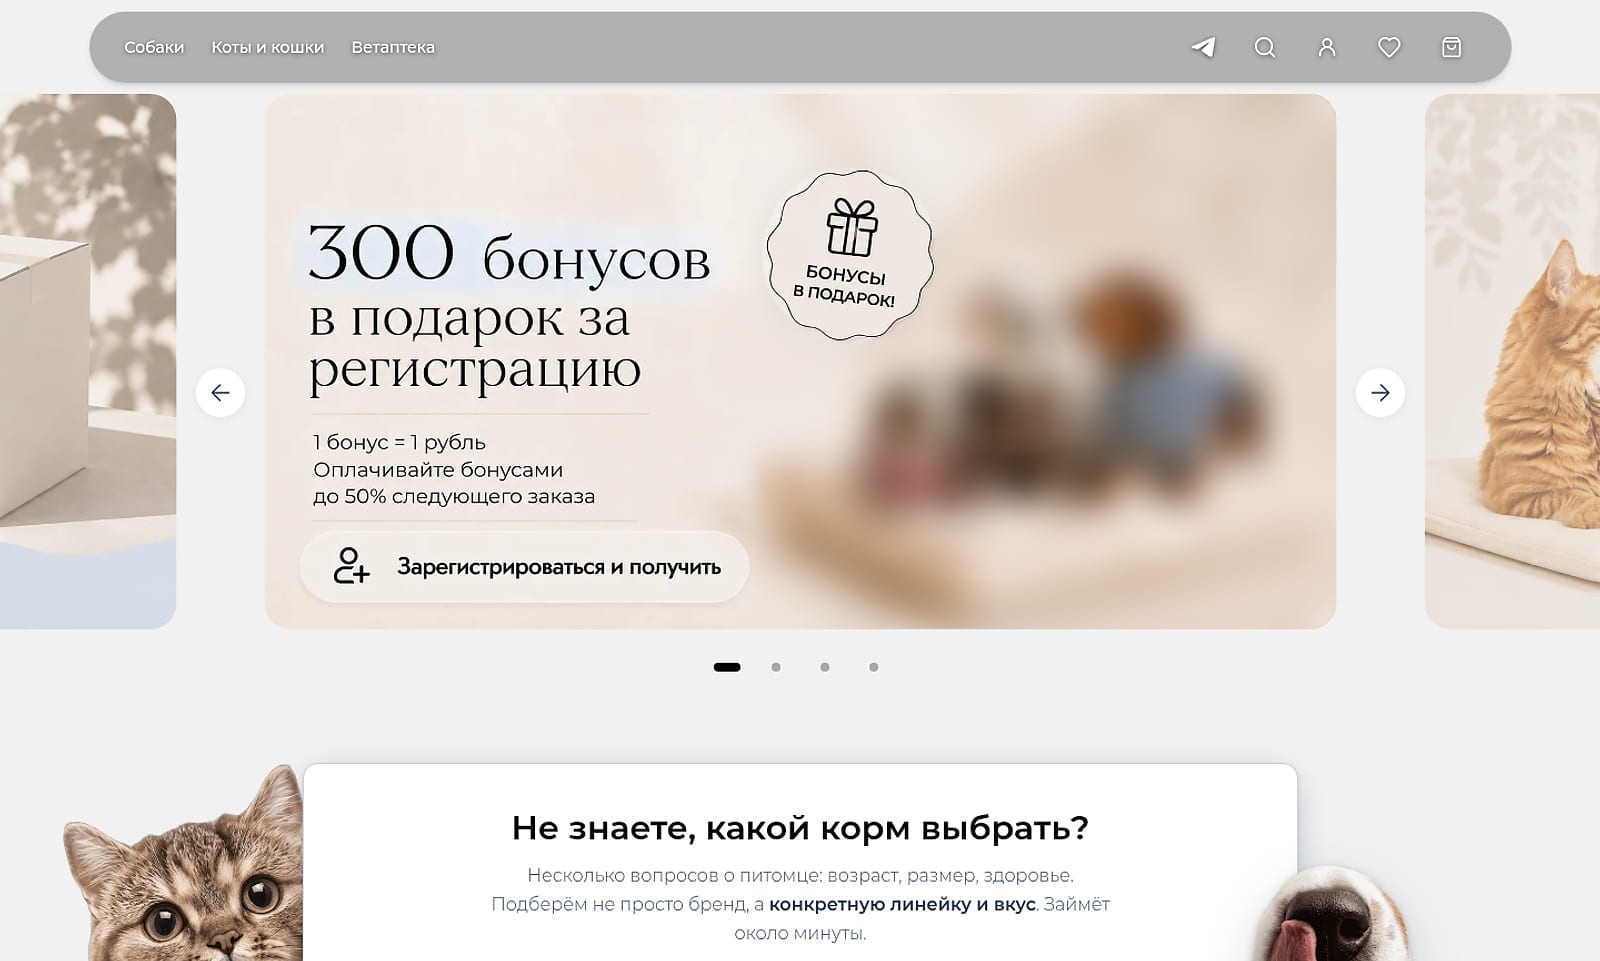
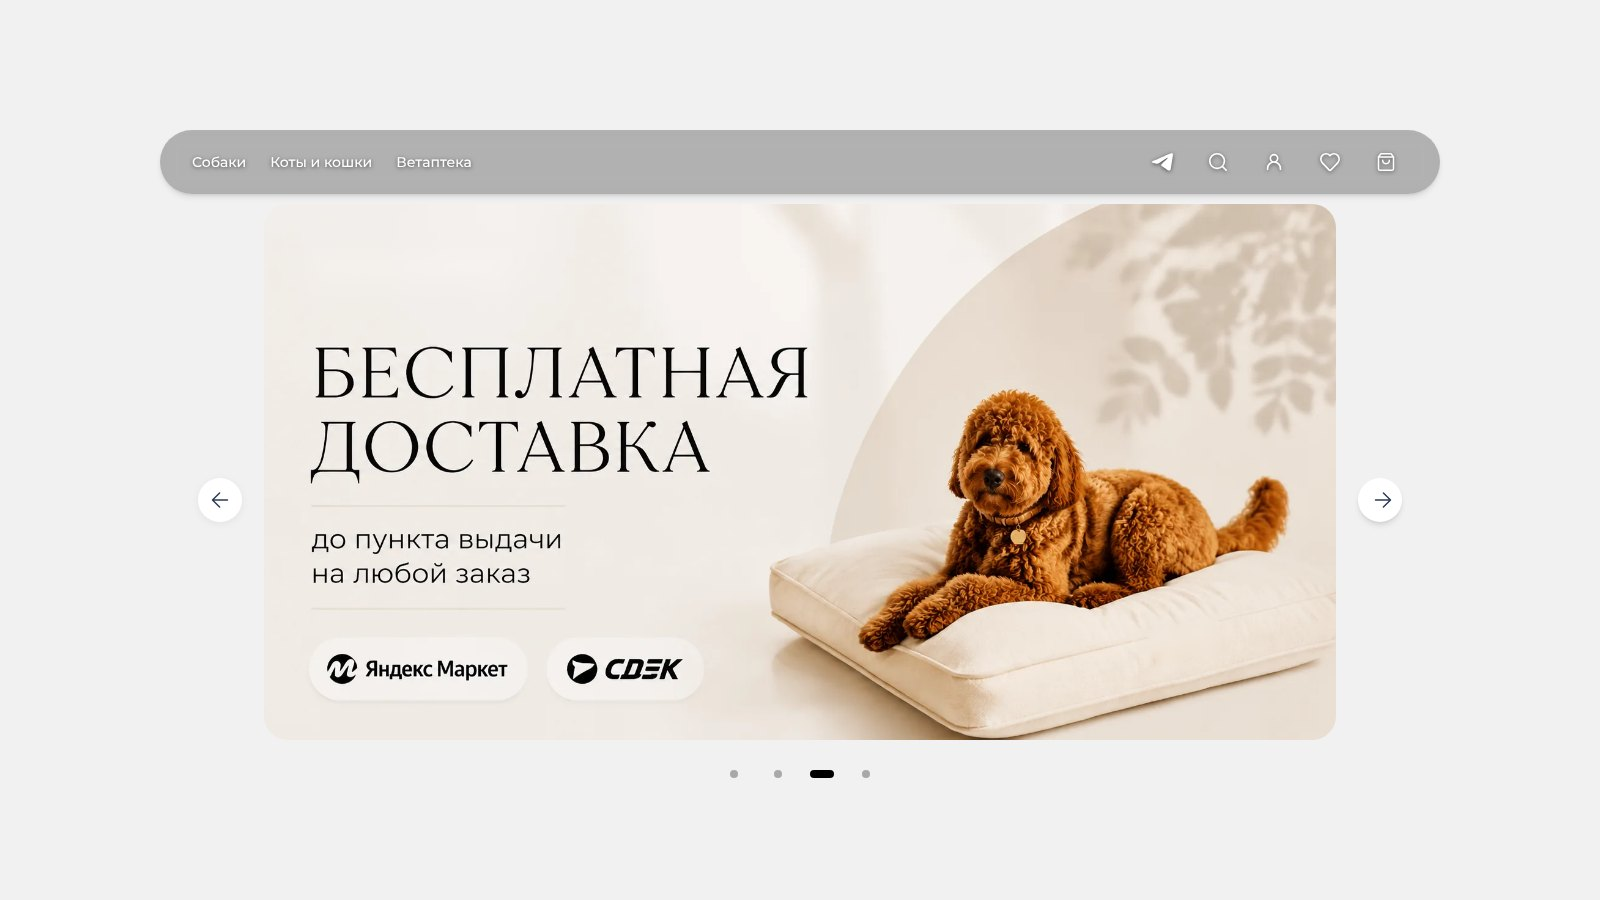
Zoo case: owner's wording for solution and result, new main and food-picker screenshots
Claude-Session: https://claude.ai/code/session_012WqZMCghjTSRZgPUz2TuLJ

diff --git a/src/content/cases.ts b/src/content/cases.ts
@@ -56,8 +56,8 @@ export const cases: Case[] = [
     ],
     tags: ['E-commerce', 'МойСклад', 'Подбор корма'],
     task: 'Зоомагазин продавал на маркетплейсах. Нужен был свой магазин с админкой вместо продаж только на площадках: покупатели заказывают напрямую, с бонусами и без комиссии площадок в цене, а цены, остатки и фото сами приходят из складской программы МойСклад.',
-    solution: 'Сделали интернет-магазин с нуля: дизайн с упором на телефон (нижняя панель, баннеры листаются пальцем) · подбор корма для кошки или собаки — 8 вопросов, ответы сопоставляются с 49 тегами, которые система сама проставила по данным каталога · бонусы: 300 за регистрацию, 5% с заказа, бонусами можно оплатить до 50% чека · личный кабинет и подписка на корм −7% · 4 способа доставки с выбором пункта выдачи',
-    result: '520 товаров на витрине, 9 брендов. 1 398 из 1 406 фасовок сопоставили с МойСклад по артикулу, цены и остатки сверяются каждые 30 минут — 48 раз в сутки. Админка из 14 разделов: баннеры, статьи и цены доставки владелец правит сам. База для SEO: 10 статей, разметка, карта сайта. Магазин готовится к запуску.',
+    solution: 'Сделали интернет-магазин с нуля: дизайн с упором на мобильную версию · универсальный подбор корма для любого питомца · бонусная система: начисление после каждой покупки · личный кабинет и подписка на корм с дополнительной скидкой · 4 способа доставки с выбором пункта выдачи',
+    result: '520 товаров на витрине, 9 брендов, 1 398 фасовок сопоставлены с МойСклад по артикулу, цене и остаткам. Реализована админка из 14 разделов: баннеры, статьи и цены доставки владелец правит сам. Проведено SEO-исследование: собрано семантическое ядро, разработана стратегия выхода в топ поиска и план работ на 12 месяцев с ожидаемым результатом. Магазин готовится к запуску.',
   },
   {
     id: 'pro-cosmetics',
